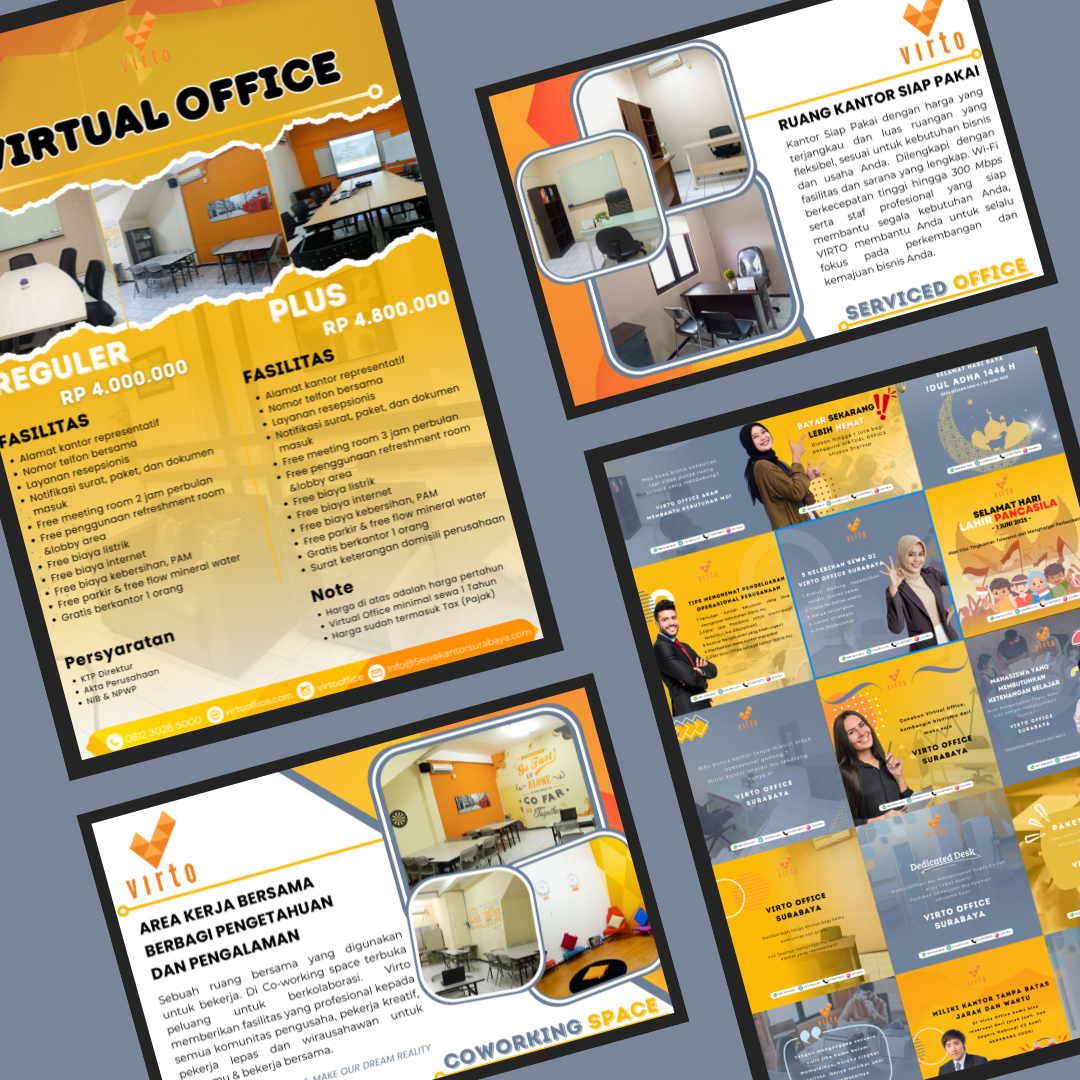
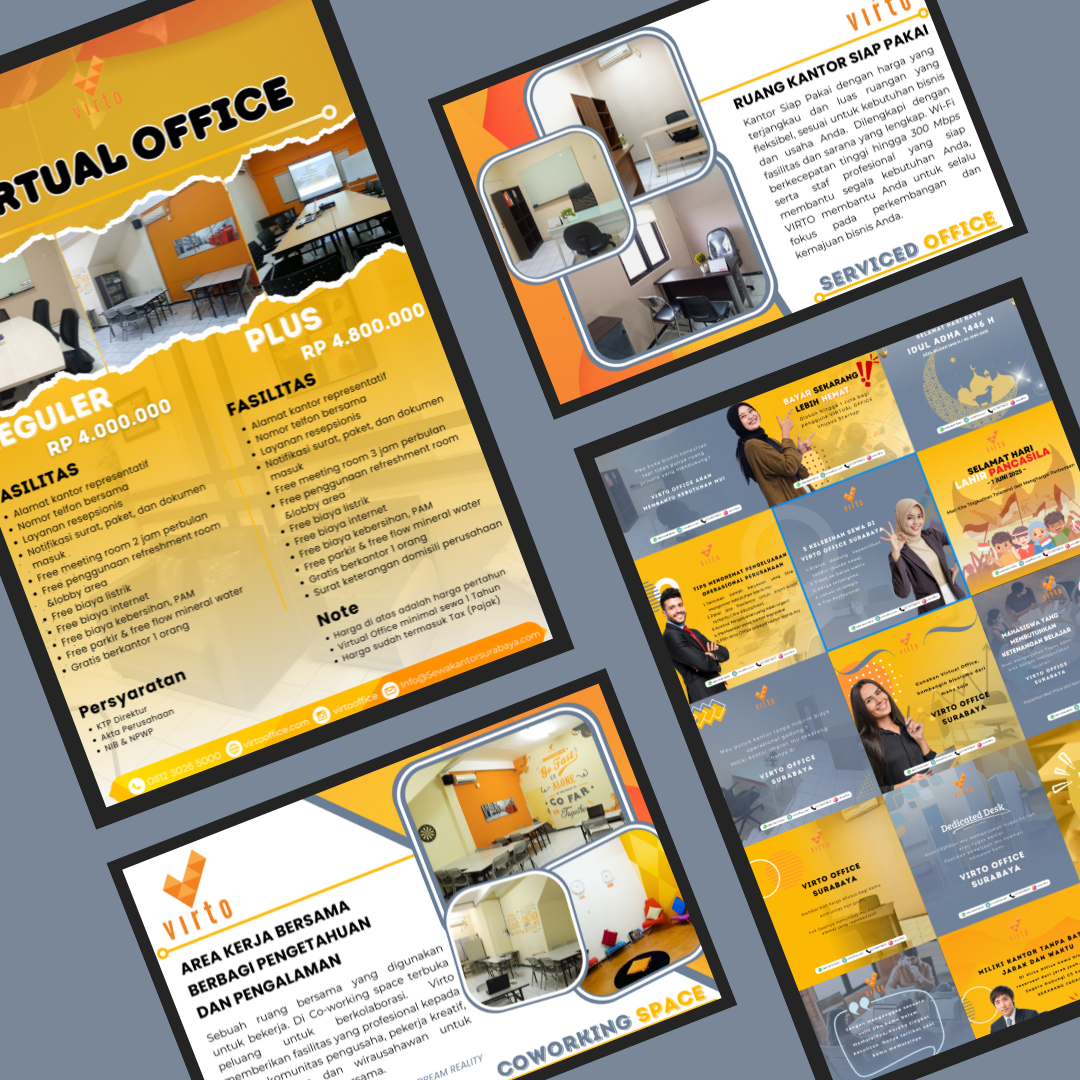
update jmeter

diff --git a/index.html b/index.html
@@ -91,7 +91,7 @@
                     <!-- Project 2 -->
                     <div class="project-card reveal">
                         <div class="project-image-wrapper">
-                            <img src="esemka laundry.jpeg" alt="Esemka Laundry" class="project-img">
+                            <img src="esemka.png" alt="Esemka Laundry" class="project-img">
                         </div>
                         <div class="project-meta">
                             <h3 class="project-title">Esemka Laundry Platform</h3>
@@ -99,6 +99,24 @@
                                 <span class="tag">UI/UX DESIGN</span>
                                 <span class="tag">FIGMA</span>
                                 <span class="tag">PROTOTYPING</span>
+                            </div>
+                        </div>
+                        <a href="#" class="case-study-link">
+                            See the case study <span class="arrow">&rarr;</span>
+                        </a>
+                    </div>
+
+                    <!-- Project 4 -->
+                    <div class="project-card reveal">
+                        <div class="project-image-wrapper">
+                            <img src="esemka laundry.jpeg" alt="ScentStep Branding" class="project-img">
+                        </div>
+                        <div class="project-meta">
+                            <h3 class="project-title">ScentStep Branding & Business</h3>
+                            <div class="project-tags">
+                                <span class="tag">BRANDING</span>
+                                <span class="tag">GRAPHIC DESIGN</span>
+                                <span class="tag">ENTREPRENEURSHIP</span>
                             </div>
                         </div>
                         <a href="#" class="case-study-link">
@@ -124,25 +142,6 @@
                             See the case study <span class="arrow">&rarr;</span>
                         </a>
                     </div>
-
-                    <!-- Project 4 -->
-                    <div class="project-card reveal">
-                        <div class="project-image-wrapper">
-                            <img src="https://images.unsplash.com/photo-1621570074981-ee6a0145c8b5?ixlib=rb-4.0.3&auto=format&fit=crop&w=1200&q=80"
-                                alt="ScentStep Branding" class="project-img">
-                        </div>
-                        <div class="project-meta">
-                            <h3 class="project-title">ScentStep Branding & Business</h3>
-                            <div class="project-tags">
-                                <span class="tag">BRANDING</span>
-                                <span class="tag">GRAPHIC DESIGN</span>
-                                <span class="tag">ENTREPRENEURSHIP</span>
-                            </div>
-                        </div>
-                        <a href="#" class="case-study-link">
-                            See the case study <span class="arrow">&rarr;</span>
-                        </a>
-                    </div>
                 </div>
             </div>
         </section>
@@ -151,7 +150,7 @@
         <section class="section tools" id="tools">
             <div class="container">
                 <div class="section-header reveal" style="text-align: center;">
-                    <h2>Uses</h2>
+                    <h2>Tools</h2>
                     <p>The software and tools I use on a daily basis to build and design.</p>
                 </div>
 
@@ -286,7 +285,7 @@
                             <line x1="3" y1="9" x2="21" y2="9" />
                             <line x1="9" y1="21" x2="9" y2="9" />
                         </svg>
-                        <p class="tool-name">Excel</p>
+                        <p class="tool-name">Ms.Excel</p>
                     </div>
                     <!-- MongoDB -->
                     <div class="bento-box">
@@ -295,6 +294,14 @@
                                 d="M17.193 9.555c-1.264-5.58-4.252-7.414-4.573-8.115-.28-.394-.53-.954-.735-1.44-.036.495-.055.685-.523 1.184-.723.566-4.438 3.682-4.74 10.02-.282 5.912 4.27 9.435 4.888 9.884l.07.05A73.49 73.49 0 0111.91 24h.481c.114-1.032.284-2.056.51-3.07.417-.296.604-.463.85-.693a11.342 11.342 0 003.639-8.464c.01-.814-.103-1.662-.197-2.218zm-5.336 8.195s0-8.291.275-8.29c.213 0 .49 10.695.49 10.695-.381-.045-.765-1.76-.765-2.405z" />
                         </svg>
                         <p class="tool-name">MongoDB</p>
+                    </div>
+                    <!-- Apache JMeter -->
+                    <div class="bento-box">
+                        <svg class="tool-icon" viewBox="0 0 24 24" fill="currentColor">
+                            <path
+                                d="M4.35 7.79s-.247-.4-.537-.228c-.14.084-.374.318-.653.658l.257.484a6.28 6.28 0 0 1 .517-.653c-.079.09-.246.298-.484.662.334-.023.666-.064.996-.123.099-.549-.096-.8-.096-.8zm-.386.228.022-.024zM.91 14.02a45.295 45.295 0 0 0-.774 2.33.198.198 0 0 1-.136.132c.23-.76.458-1.476.687-2.124-.143-.033-.346.007-.594.11.17-.13.339-.242.5-.252-.051-.011-.183-.057-.36-.22.169.063.316.094.422.072-.022-.282-.174-.57-.374-.86-.001-.002.28.161.383.33l.002-.023c.017-.22.048-.438.093-.654v-.002c.034-.174.076-.348.127-.522l.066-.223c.028-.087.06-.176.093-.27.11-.301.235-.596.375-.884l.036-.072c.128-.257.264-.511.408-.76.076-.133.154-.262.231-.39.007-.007.011-.017.017-.026L2.11 9.71l.008-.013c.236-.38.488-.75.754-1.108a8.36 8.36 0 0 1 .229-.296l.058-.072.256.482a10.46 10.46 0 0 0-.268.404c-.172.276-.335.559-.487.846l-.217.414-.222-.439.22.44-.007.015c-.044.09-.09.18-.133.27a6.9 6.9 0 0 0-.077.16l-.206.444a42.824 42.824 0 0 0-.57 1.344l-.18.457a6.523 6.523 0 0 1-.04.103c-.044.121-.091.239-.134.357v.004l-.033.088-.141.381-.01.029zm3.235-4.623a4.98 4.98 0 0 1-.334.562c-.106.149-.216.25-.457.363l.022-.004c.002-.002.003-.002.006-.002.125-.023.28-.074.37-.127a.184.184 0 0 0 .036-.024.846.846 0 0 1-.02.089c-.006.025-.016.054-.026.085l-.012.033-.036.092a2.985 2.985 0 0 1-.102.226c-.008.019-.018.038-.028.057l-.024.039a.85.85 0 0 1-.084.116l-.04.044a1.2 1.2 0 0 1-.113.101 1.231 1.231 0 0 1-.27.151l.017-.002.064-.011c.129-.031.251-.085.361-.16-.138.275-.326.497-.628.612l.052-.007.05-.011a.998.998 0 0 0 .254-.087 6.74 6.74 0 0 1-.18.492c-.071.174-.145.33-.225.47a2.577 2.577 0 0 1-.35.487c-.276.298-.705.54-1.027.58l.016.003c.366.076.745-.047.996-.324a2.685 2.685 0 0 1-.106.187c-.148.24-.318.386-.654.537.23.013.35-.041.448-.165a1.414 1.414 0 0 1-.052.1c-.215.356-.634.478-1.117.456a.54.54 0 0 1 .174.37c-.074-.134-.152-.251-.251-.297l.116-.334a.523.523 0 0 1 .02-.054v-.006l.132-.37a.837.837 0 0 0 .026-.07l.003-.01.17-.454.007-.022.168-.435c.061-.159.124-.312.184-.46.123-.301.25-.6.382-.897.052-.116.101-.228.152-.336l.05-.108.097-.205c.028-.063.059-.122.088-.183l.027-.058c.002-.002.003-.006.002-.011l.006-.001c.074-.15.143-.291.213-.423.15-.29.309-.576.474-.857l.013-.023c.088-.148.171-.28.246-.396.333-.023.665-.064.995-.12-.011.052-.022.107-.038.165a2.966 2.966 0 0 1-.075.225 4.142 4.142 0 0 1-.187.413h-.001zm2.351.674v4.596c0 .28-.041.527-.125.732a1.337 1.337 0 0 1-.35.512 1.37 1.37 0 0 1-.531.3c-.203.063-.43.095-.674.095a2.728 2.728 0 0 1-.659-.074.063.063 0 0 1-.046-.06v-.842a.063.063 0 0 1 .076-.062c.077.018.162.033.25.045.162.024.376.03.54-.01a.48.48 0 0 0 .332-.29.826.826 0 0 0 .052-.313v-4.63c0-.035.027-.063.062-.063h1.01c.036 0 .063.028.063.063zm8.588 1.44a1.352 1.352 0 0 0-.518-.334 1.887 1.887 0 0 0-.675-.114c-.254 0-.49.041-.702.125-.208.082-.395.21-.545.377a1.75 1.75 0 0 0-.35.619 2.704 2.704 0 0 0-.123.859c0 .32.044.606.135.848.092.24.222.443.386.603.164.157.364.276.59.355a2.3 2.3 0 0 0 .742.118c.143 0 .267-.005.377-.015a2.33 2.33 0 0 0 .61-.13c.095-.033.187-.074.273-.12a.06.06 0 0 0 .033-.055v-.77a.063.063 0 0 0-.09-.055 2.505 2.505 0 0 1-.827.265c-.102.01-.204.015-.307.014a.907.907 0 0 1-.332-.055.703.703 0 0 1-.243-.162.797.797 0 0 1-.155-.263 1.168 1.168 0 0 1-.058-.295h2.157a.063.063 0 0 0 .063-.062v-.483a2.126 2.126 0 0 0-.114-.725 1.462 1.462 0 0 0-.327-.544zm-1.758 1.029c.022-.216.081-.377.176-.478a.518.518 0 0 1 .395-.167.55.55 0 0 1 .246.052c.07.033.13.083.176.144a.647.647 0 0 1 .105.22c.02.071.033.148.038.229h-1.136zm10.673-1.387v.934a.062.062 0 0 1-.077.06.727.727 0 0 0-.254-.027l-.08-.004c-.121 0-.233.016-.337.047a.636.636 0 0 0-.253.145.672.672 0 0 0-.163.264c-.039.11-.059.248-.059.411v1.856a.063.063 0 0 1-.063.063h-.994a.063.063 0 0 1-.063-.063v-3.645c0-.035.028-.063.063-.063h.753c.028 0 .053.02.06.046l.124.462c.04-.067.085-.13.133-.191a.932.932 0 0 1 .487-.338 1.14 1.14 0 0 1 .434-.044c.033 0 .065 0 .096.006a.76.76 0 0 1 .084.011.279.279 0 0 1 .066.011.061.061 0 0 1 .044.059h-.001zm-5.956 2.794a.06.06 0 0 1 .027.05v.741a.06.06 0 0 1-.033.055 1.524 1.524 0 0 1-.364.125c-.304.068-.62.066-.924-.008a.91.91 0 0 1-.381-.207 1.036 1.036 0 0 1-.256-.397 1.819 1.819 0 0 1-.088-.608V12h-.414a.063.063 0 0 1-.062-.062v-.42a.06.06 0 0 1 .03-.053l.529-.323.28-.75a.062.062 0 0 1 .058-.04h.636c.035 0 .062.028.062.063v.714h.825c.034 0 .063.028.063.062v.747a.063.063 0 0 1-.063.063h-.825v1.695c0 .124.029.214.085.268a.315.315 0 0 0 .231.084c.094 0 .181-.011.263-.03.089-.022.177-.05.264-.08a.062.062 0 0 1 .057.007v.001zm-6.105-3.876v4.77a.063.063 0 0 1-.062.061h-.943a.063.063 0 0 1-.063-.063v-2.45l.014-.473.01-.242.008-.187-1.018 3.37a.062.062 0 0 1-.06.044h-.93a.063.063 0 0 1-.06-.044l-.929-3.32a24.947 24.947 0 0 1 .033.88c.003.074.005.142.005.204v2.218a.063.063 0 0 1-.063.063h-.903a.063.063 0 0 1-.063-.063V10.07c0-.034.027-.063.062-.063h1.376c.03 0 .053.02.061.047l.981 3.473 1.046-3.474a.063.063 0 0 1 .06-.044h1.376c.034 0 .062.027.062.061zm9.135 1.44a1.351 1.351 0 0 0-.517-.334 1.886 1.886 0 0 0-.676-.114c-.253 0-.49.041-.701.125-.208.082-.395.21-.545.377a1.75 1.75 0 0 0-.35.619c-.087.278-.13.568-.124.859 0 .32.046.606.135.848.093.24.223.443.387.603.164.157.364.276.59.355a2.3 2.3 0 0 0 .742.118c.143 0 .266-.005.376-.015a2.306 2.306 0 0 0 .884-.25.06.06 0 0 0 .033-.055v-.77a.063.063 0 0 0-.09-.055 2.5 2.5 0 0 1-.828.265c-.101.01-.204.015-.306.014a.905.905 0 0 1-.332-.055.7.7 0 0 1-.242-.162.799.799 0 0 1-.157-.263 1.165 1.165 0 0 1-.057-.295h2.157a.063.063 0 0 0 .063-.062v-.483a2.126 2.126 0 0 0-.114-.725 1.464 1.464 0 0 0-.328-.544zm-.765.58a.65.65 0 0 1 .106.22c.02.071.033.148.038.229h-1.137c.022-.216.082-.377.177-.478a.518.518 0 0 1 .395-.167.55.55 0 0 1 .246.052.48.48 0 0 1 .175.144zM6.26 7.63h-.137L5.41 9.336h.179l.218-.534h.769l.22.534h.18l-.714-1.708H6.26zm-.419 1.04.352-.844.341.844h-.693zm1.483.035h.555c.292 0 .489-.262.489-.54 0-.265-.211-.536-.503-.536h-.708v1.708h.166v-.632zm0-.926h.532c.187 0 .346.172.346.386 0 .207-.13.392-.332.392h-.546v-.778zm1.129 1.558.218-.534h.767l.22.534h.184l-.714-1.708H8.99l-.715 1.708h.177zm.606-1.51.342.843H8.71l.352-.844H9.06zm.778.643c0-.41.297-.85.81-.85a.672.672 0 0 1 .631.372l-.135.081a.538.538 0 0 0-.504-.303c-.408 0-.632.365-.632.709 0 .376.276.718.639.718a.58.58 0 0 0 .526-.318l.14.073c-.111.256-.414.397-.676.397-.468 0-.799-.447-.799-.88zm1.875.867h-.165V7.629h.165v.76h1.011v-.76h.169v1.708h-.169v-.799h-1.01v.799zm2.71 0h-1.145V7.629h1.124v.15h-.959v.616h.836v.142h-.837v.65h.982v.15z" />
+                        </svg>
+                        <p class="tool-name">JMeter</p>
                     </div>
                 </div>
             </div>
